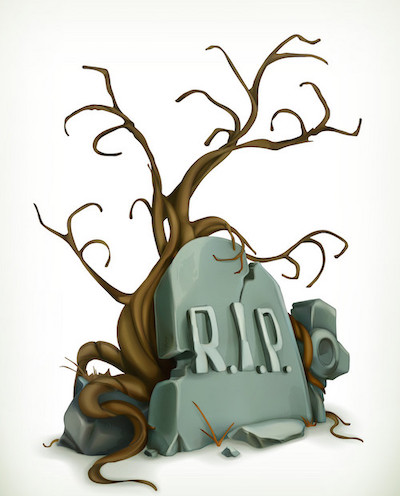
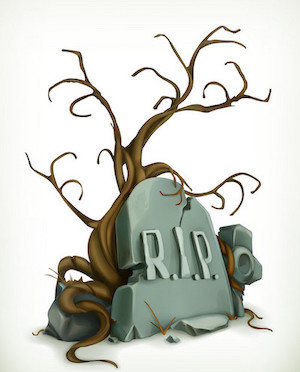
Testing and update

diff --git a/Unit08/js/main.js b/Unit08/js/main.js
@@ -1,8 +1,8 @@
 // Document SetUp DOM
-document.querySelector('#company').innerText = "Pizza Emporium"
+document.querySelector('#company').innerText = "Grant's Tomb"
 document.querySelector('header > h2').innerText = "Literal Objects"
 
-let message
+
 
 const question = {
     stem: "Who is buried in Grant's Tomb?",
@@ -14,17 +14,29 @@ const question = {
     display: () => {
         document.querySelector('#stem').textContent = question.stem
         // display the question options here
+        document.querySelector('#answer1').textContent = question.option1
+        document.querySelector('#answer2').textContent = question.option2
+        document.querySelector('#answer3').textContent = question.option3
+        document.querySelector('#answer4').textContent = question.option4
+
+        
     },
     check: (userChoice) => {
-        if (userChoice === question.correct)
-        document.querySelector("feedback").textContent = "You are correct!"
+        if (userChoice === question.correct) {
+        document.querySelector(".feedback").textContent = "You are correct!"
+        // fixed ("feedback") and changed to (".feedback")
+        // document.querySelector(".feedback").style.backgroundColor  = "";
     }   // else...
+    else {
+        document.querySelector(".feedback").textContent = "Wrong answer. Try again?"
+        // document.querySelector(".feedback").style.backgroundColor  = "";
+    }
+    }
 }
-
-document.querySelector('#answer1').addEventListener('click,' () => question.check(1))
-document.querySelector('#answer2').addEventListener('click,' () => question.check(2))
-document.querySelector('#answer3').addEventListener('click,' () => question.check(3))
-document.querySelector('#answer4').addEventListener('click,' () => question.check(4))
+document.querySelector('#answer1').addEventListener('click', () => question.check(1))
+document.querySelector('#answer2').addEventListener('click', () => question.check(2))
+document.querySelector('#answer3').addEventListener('click', () => question.check(3))
+document.querySelector('#answer4').addEventListener('click', () => question.check(4))
 
 
 question.display()

diff --git a/Unit08/index.html b/Unit08/index.html
@@ -30,11 +30,13 @@
         <li>Use querySelector and textContent to dynamically change text on the screen</li>
     </ul>
     <h2>Question of the Day</h2>
-    <div id="stem"></div>
-    <button id="answer1"></button>
-    <button id="answer2"></button>
-    <button id="answer3"></button>
-    <button id="answer4"></button>
+    <div id="stem" class="question"></div>
+    <div class="allbuttons">
+    <button id="answer1" class="button"></button>
+    <button id="answer2" class="button"></button>
+    <button id="answer3" class="button"></button>
+    <button id="answer4" class="button"></button>
+    </div>
     <div class="feedback"></div>
    </main>
 

diff --git a/Unit08/css/stylesheet.css b/Unit08/css/stylesheet.css
@@ -10,7 +10,7 @@ header, main, footer {
     margin: 0 auto;
 }
 header {
-    background-image: url("../images/tomb.jpg");
+    background-image: url("../images/tomb.png");
     height: 200px;
 }
 header h1 {
